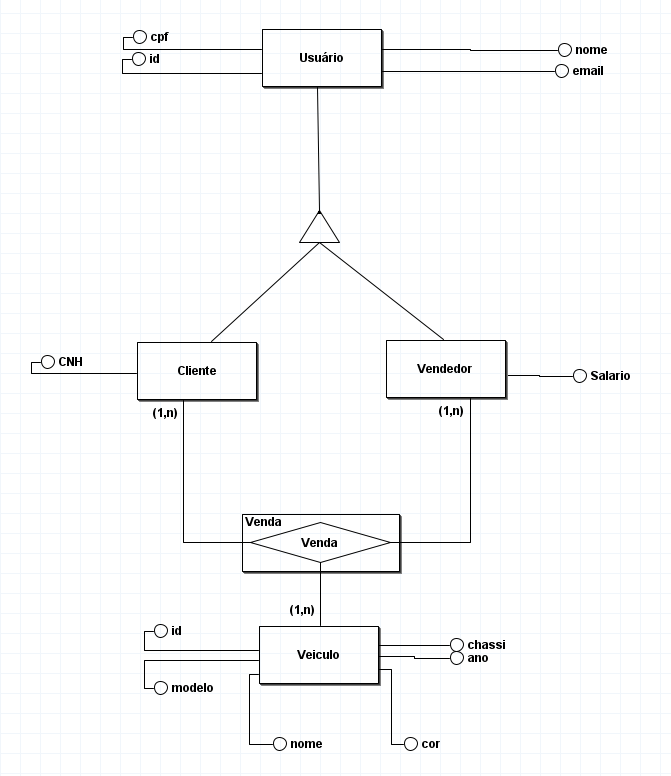
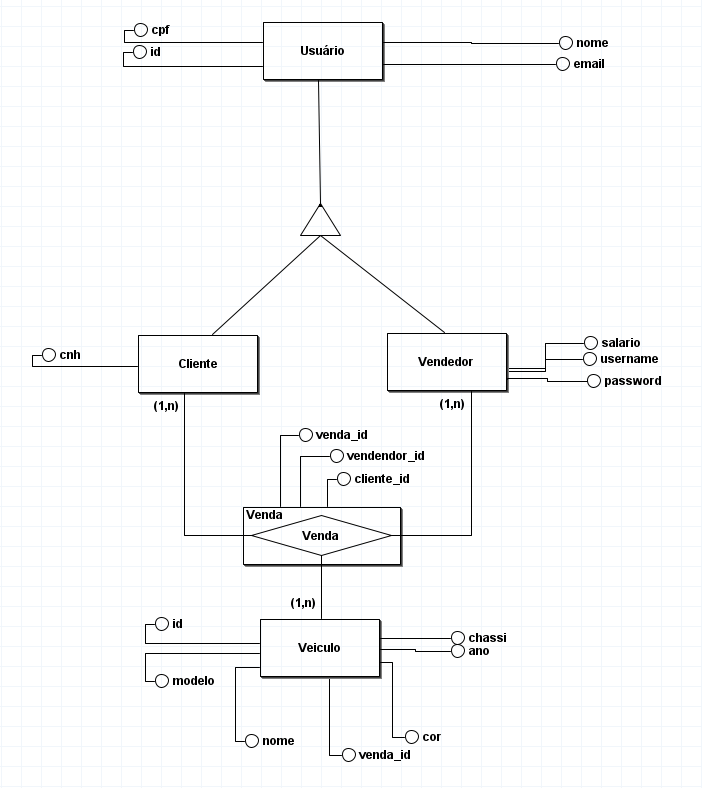
aaaaa

diff --git a/src/main/java/br/ufpb/concessionaria/load/Load.java b/src/main/java/br/ufpb/concessionaria/load/Load.java
@@ -69,22 +69,37 @@ public class Load {
         vendedor.setCpf("943-317-973-37");
         vendedor.setEmail("januario@gmail.com");
         vendedor.setSalario("7349831604");
+        vendedor.setUsername("user1");
+        vendedor.setPassword("123");
+
         vendedor2.setNome("Kevin Freire");
         vendedor2.setCpf("768-197-376-76");
         vendedor2.setEmail("kevin@gmail.com");
         vendedor2.setSalario("7349700197");
+        vendedor.setUsername("user");
+        vendedor.setPassword("123");
+
         vendedor3.setNome("Julio Paulo");
         vendedor3.setCpf("221-976-379-77");
         vendedor3.setEmail("julio@gmail.com");
         vendedor3.setSalario("4337946834");
+        vendedor.setUsername("user3");
+        vendedor.setPassword("123");
+
         vendedor4.setNome("Raul Alburquerque");
         vendedor4.setCpf("943-649-777-666");
         vendedor4.setEmail("raul@gmail.com");
         vendedor4.setSalario("9731887694");
+        vendedor.setUsername("user4");
+        vendedor.setPassword("123");
+
         vendedor5.setNome("Tiago Beltrão");
         vendedor5.setCpf("734-493-197-99");
         vendedor5.setEmail("tiago@gmail.com");
         vendedor5.setSalario("0055937834");
+        vendedor.setUsername("user5");
+        vendedor.setPassword("123");
+
         vendedorRepository.save(vendedor);
         vendedorRepository.save(vendedor2);
         vendedorRepository.save(vendedor3);

diff --git a/README.md b/README.md
@@ -74,6 +74,7 @@ Requisições para a API devem seguir os padrões:
 
 * GET: /api/clientes
   * Resposta:
+  
     ```
       [{
         "id": "",
@@ -333,7 +334,7 @@ Requisições para a API devem seguir os padrões:
       "cor": ""
     }
     ```
-
+    
 
 #### Controller Venda
   * POST: api/venda/vendedor/{vendedorId}/cliente/{clienteId}/veiculo/{veiculoId}
@@ -402,7 +403,7 @@ Requisições para a API devem seguir os padrões:
   ```
 * DELETE: api/venda/{vendaId}
   * Envio:
-  ```
+   ```
   {
     "vendaId": "",
     "veiculoId": "",
